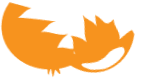
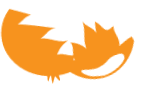
before lava version

Changed region(s): [[0.0, 0.0244, 0.9577, 0.9512]]

diff --git a/p5/Murmelbahn_V1/js/theEnd.js b/p5/Murmelbahn_V1/js/theEnd.js
@@ -8,21 +8,39 @@ function createEndBlock(x, y, svg, image) {
     image: image,
     trigger: (ball, block) => {
       Matter.Composite.remove(world, [granatapfel.body]);
-      granatapfel.attributes.image = granatapfelKaputtImg;
+      granatapfel.attributes.image = null;
       granatapfelCrack.play()
-      setTimeout(theEndSound.play(), 100);
+      var granatapfelkaputt1 = new Ball(world,
+        { x: granatapfel.body.position.x, y: granatapfel.body.position.y, r: 25, image: granatapfelKaputtImg1 },
+        { isStatic: false }
+      );
+      var granatapfelkaputt2 = new Ball(world,
+        { x: granatapfel.body.position.x, y: granatapfel.body.position.y, r: 25, image: granatapfelKaputtImg2 },
+        { isStatic: false }
+      );
+      var granatapfelkaputt3 = new Ball(world,
+        { x: granatapfel.body.position.x, y: granatapfel.body.position.y, r: 25, image: granatapfelKaputtImg3 },
+        { isStatic: false }
+      );
+      Matter.Body.applyForce(granatapfelkaputt1.body, granatapfelkaputt1.body.position, { x: 0, y: -0.02 })
+      Matter.Body.applyForce(granatapfelkaputt2.body, granatapfelkaputt2.body.position, { x: -0.01, y: -0.02 })
+      Matter.Body.applyForce(granatapfelkaputt3.body, granatapfelkaputt3.body.position, { x: 0.01, y: -0.02 })
+      blocks.push(granatapfelkaputt1, granatapfelkaputt2, granatapfelkaputt3);
       for (var i = 0; i < 25; i++) {
         var ball = new Ball(world,
-          { x: granatapfel.body.position.x, y: granatapfel.body.position.y, r: random(5, 15), color: "#F7931E" },
+          { x: granatapfel.body.position.x, y: granatapfel.body.position.y, r: random(5, 10), color: "#F7931E" },
           { isStatic: false }
         );
+        Matter.Body.applyForce(ball.body, ball.body.position, { x: 0, y: -0.003 })
         blocks.push(ball);
-        setTimeout(() => {
-          
-          Matter.Composite.remove(world, [endBlock.body]);   
-          endBlock.attributes.image = null;
-        }, 600);
+
       }
+
+      setTimeout(theEndSound.play(), 100);
+      setTimeout(() => {
+        Matter.Composite.remove(world, [endBlock.body]);
+        endBlock.attributes.image = null;
+      }, 2000);
     }
   }, { isStatic: true, friction: 0.0 }
   );

diff --git a/p5/Murmelbahn_V1/sketch.js b/p5/Murmelbahn_V1/sketch.js
@@ -77,7 +77,9 @@ let fallingRockSound;
 let schaleImg;
 let endBlock;
 let endBlockImg; 
-let granatapfelKaputtImg; 
+let granatapfelKaputtImg1; 
+let granatapfelKaputtImg2; 
+let granatapfelKaputtImg3; 
 
 
 let canvasElem;
@@ -108,7 +110,9 @@ function preload() {
   fallingFelsbrockenImg = loadImage('images/fallingFelsbrockenImg.png');
   schaleImg = loadImage("images/schale.png")
   endBlockImg = loadImage("images/theEndFloor.png")
-  granatapfelKaputtImg = loadImage("images/granatapfelKaputtImg.png")
+  granatapfelKaputtImg1 = loadImage("images/granatapfelKaputtImg1.png")
+  granatapfelKaputtImg2 = loadImage("images/granatapfelKaputtImg2.png")
+  granatapfelKaputtImg3 = loadImage("images/granatapfelKaputtImg3.png")
   
 
     // load sound
@@ -308,7 +312,7 @@ createGranatapfel()
 
   // the ball has a label and can react on collisions
   granatapfel = new Ball(world,
-    { x: 100, y: 7000, r: 60, image: granatapfelImg },
+    { x: 100, y: 100, r: 60, image: granatapfelImg },
     { label: "Murmel", density: 0.001, restitution: 0.4, frictionAir: 0.0, isStatic: true }
   );
   blocks.push(granatapfel);

diff --git a/p5/Murmelbahn_V1/js/soundSensor.js b/p5/Murmelbahn_V1/js/soundSensor.js
@@ -1,7 +1,7 @@
 function createSoundSensor(world,x, y, w, h, trigger) {
     return new Block(
       world,
-      {x: x, y: y, w: w, h: h, color: "white",
+      {x: x, y: y, w: w, h: h,
       trigger: (ball, block) => {
         womanTalking.play();
       }},
